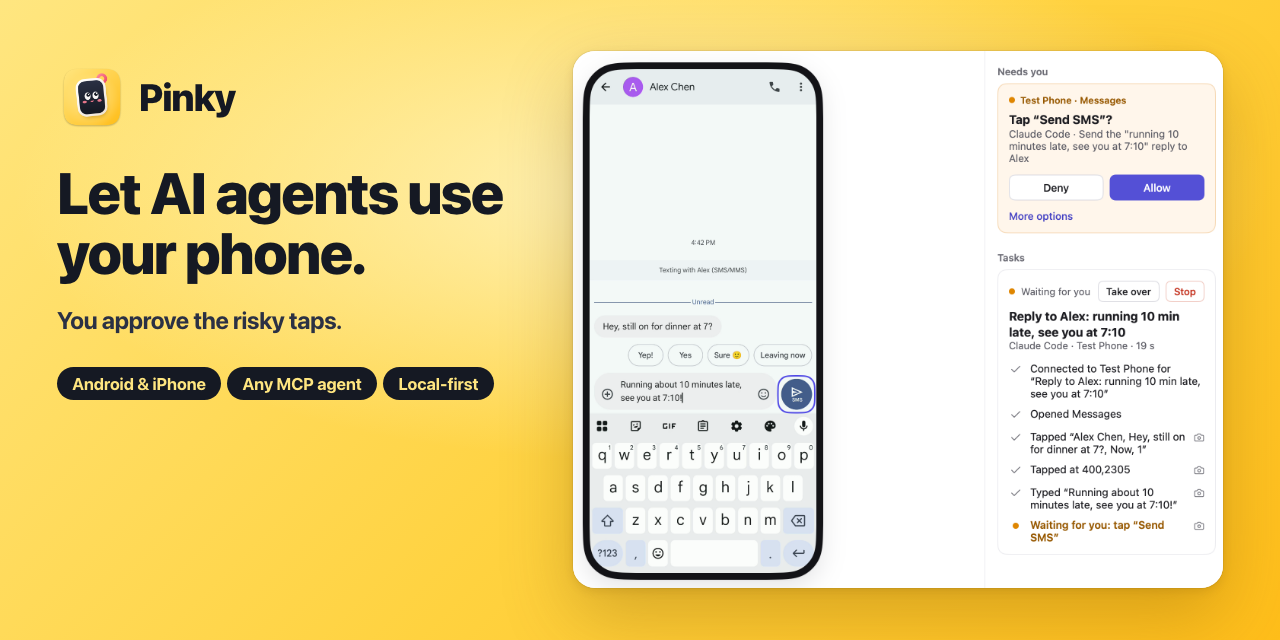
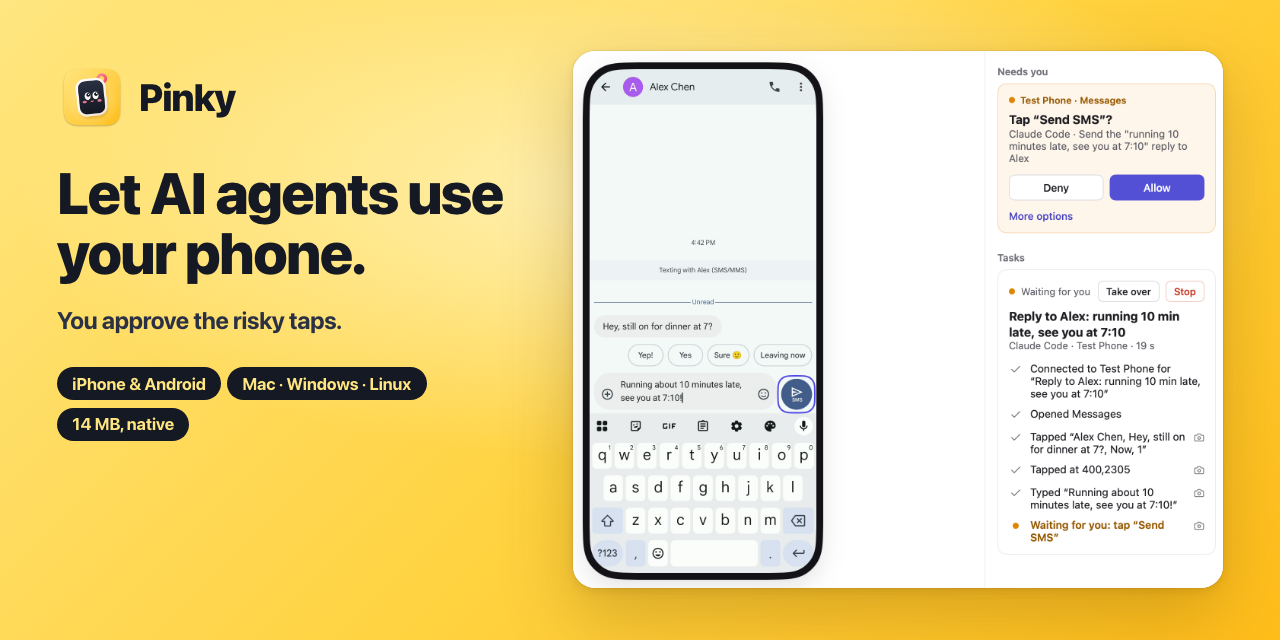
docs: README tagline, platform and footprint points
Lead with the confirmed positioning: one app for macOS, Windows and
Linux that drives iPhones and Android phones, and a small native app
built with MyGo. Sizes are the v2026.1107.1 downloads; idle memory and
CPU were measured on main with the window open and no phone connected.

The social preview now carries the platform chips, and the demo GIF is
cut from the re-rendered demo with smooth camera moves.

Changed region(s): [[0.1875, 0.5625, 0.4062, 0.625], [0.0312, 0.5938, 0.1562, 0.6875]]

diff --git a/README.md b/README.md
@@ -1,12 +1,14 @@
 <p align="center"><img src="assets/icon/pinky-macos-1024.png" width="112" alt=""></p>
 <h1 align="center">Pinky</h1>
-<p align="center"><b>Let AI agents use your phone, with you in the loop.</b></p>
+<p align="center"><b>Let any AI agent use your iPhone or Android phone, from macOS, Windows or Linux, with you in the loop.</b></p>
 <p align="center"><img src="assets/readme/hero.png" width="880" alt="Pinky's window: Claude Code replies to a text on an Android phone, and the Send tap waits for approval"></p>
 
 Pinky lets any agent (Claude Code, Codex, Cursor or a script) operate a real iPhone or Android phone over MCP, while you watch on your computer, approve risky steps, take over and review what happened. Approvals are enforced by Pinky's gateway, not by instructions to the agent.
 
 <p align="center"><img src="assets/readme/demo.gif" width="760" alt="Claude Code types a reply in Messages; Pinky holds the Send tap until it is allowed, then the text goes out"><br><sub>A real Claude Code run on an Android 16 emulator.</sub></p>
 
+- **Every platform.** One app for macOS (Apple silicon and Intel), Windows and Linux. It drives Android phones (Android 10 to 17) and iPhones on iOS 27 or later, with nothing to install on the iPhone.
+- **Tiny and native.** The window is drawn by [MyGo](https://github.com/egoist/mygo) on the GPU, with no Electron and no webview: a 12–16 MB download that idles at about 70 MB of memory and 0% CPU on a Mac.
 - **You approve the risky steps.** Sends, payments, orders, deletions, calls, installs, links that leave the app and settings changes wait for your click; Pinky spots these buttons in 10 languages. The rules run in Pinky's gateway, so an agent can't approve itself, even when text on the screen tries to talk it into it.
 - **Your phone stays yours.** On Android 13 and later, agents work on a hidden second screen, so the phone can stay off and locked. Click the mirror to take over; on Android, touching the phone yourself pauses the agent too. Stop all is ⌥⌘. from anywhere.
 - **Off-limits by default.** Banking, wallet and password-manager apps are invisible to agents, and agents can't type into password or one-time-code fields. Every new agent needs your approval and gets only the scope you give it.
